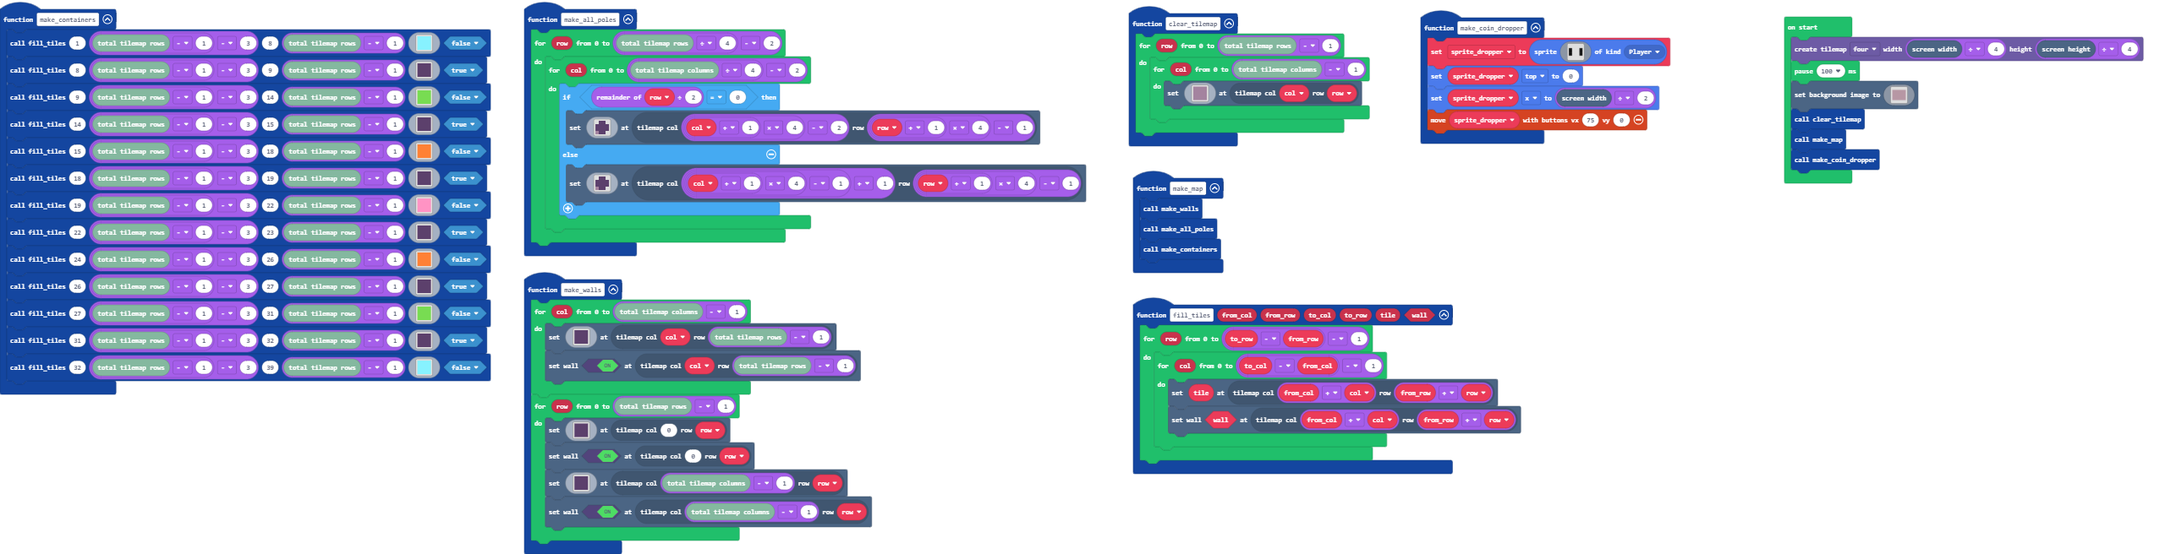
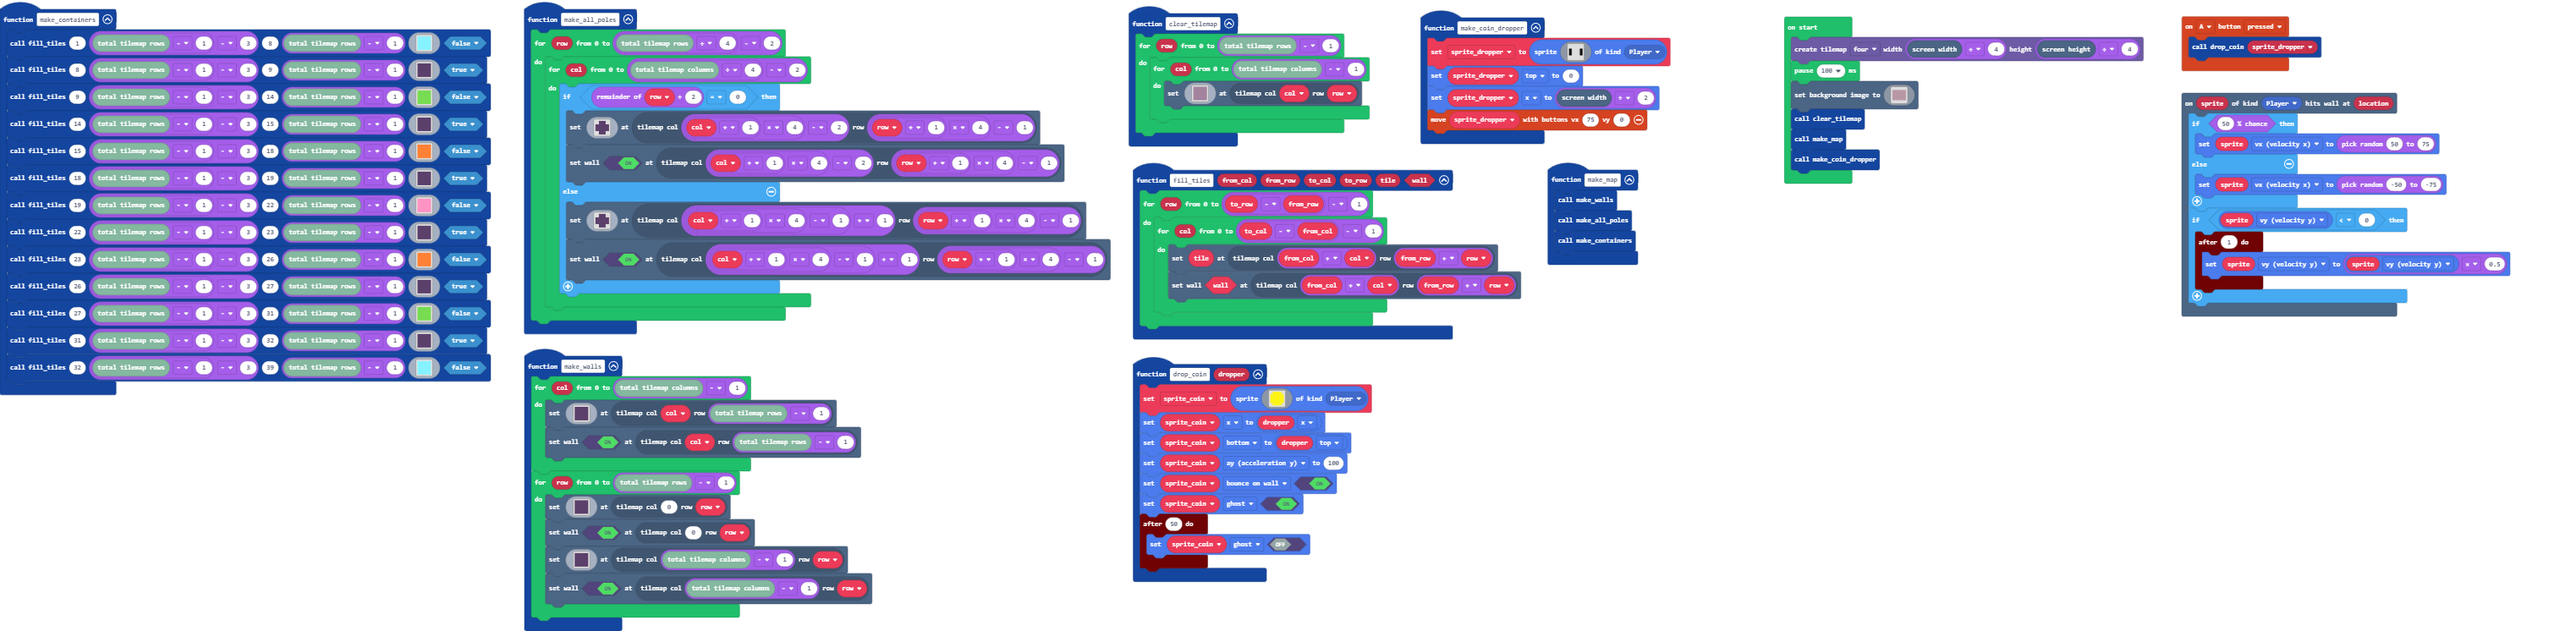
Can drop coins

diff --git a/main.ts b/main.ts
@@ -1,3 +1,29 @@
+scene.onHitWall(SpriteKind.Player, function (sprite, location) {
+    if (Math.percentChance(50)) {
+        sprite.vx = randint(50, 75)
+    } else {
+        sprite.vx = randint(-50, -75)
+    }
+    if (sprite.vy < 0) {
+        timer.after(1, function () {
+            sprite.vy = sprite.vy * 0.5
+        })
+    }
+})
+function drop_coin (dropper: Sprite) {
+    sprite_coin = sprites.create(assets.image`coin`, SpriteKind.Player)
+    sprite_coin.x = dropper.x
+    sprite_coin.bottom = dropper.top
+    sprite_coin.ay = 100
+    sprite_coin.setFlag(SpriteFlag.BounceOnWall, true)
+    sprite_coin.setFlag(SpriteFlag.Ghost, true)
+    timer.after(50, function () {
+        sprite_coin.setFlag(SpriteFlag.Ghost, false)
+    })
+}
+controller.A.onEvent(ControllerButtonEvent.Pressed, function () {
+    drop_coin(sprite_dropper)
+})
 function make_containers () {
     fill_tiles(1, tiles.tilemapRows() - 1 - 3, 8, tiles.tilemapRows() - 1, assets.image`10_points`, false)
     fill_tiles(8, tiles.tilemapRows() - 1 - 3, 9, tiles.tilemapRows() - 1, assets.image`wall`, true)
@@ -12,7 +38,7 @@ function make_containers () {
         3 3 3 3 
         `, false)
     fill_tiles(22, tiles.tilemapRows() - 1 - 3, 23, tiles.tilemapRows() - 1, assets.image`wall`, true)
-    fill_tiles(24, tiles.tilemapRows() - 1 - 3, 26, tiles.tilemapRows() - 1, assets.image`50_points`, false)
+    fill_tiles(23, tiles.tilemapRows() - 1 - 3, 26, tiles.tilemapRows() - 1, assets.image`50_points`, false)
     fill_tiles(26, tiles.tilemapRows() - 1 - 3, 27, tiles.tilemapRows() - 1, assets.image`wall`, true)
     fill_tiles(27, tiles.tilemapRows() - 1 - 3, 31, tiles.tilemapRows() - 1, assets.image`25_points`, false)
     fill_tiles(31, tiles.tilemapRows() - 1 - 3, 32, tiles.tilemapRows() - 1, assets.image`wall`, true)
@@ -23,8 +49,10 @@ function make_all_poles () {
         for (let col = 0; col <= tiles.tilemapColumns() / 4 - 2; col++) {
             if (row % 2 == 0) {
                 tiles.setTileAt(tiles.getTileLocation((col + 1) * 4 - 2, (row + 1) * 4 - 1), assets.image`pole`)
+                tiles.setWallAt(tiles.getTileLocation((col + 1) * 4 - 2, (row + 1) * 4 - 1), true)
             } else {
                 tiles.setTileAt(tiles.getTileLocation((col + 1) * 4 - 1 + 1, (row + 1) * 4 - 1), assets.image`pole`)
+                tiles.setWallAt(tiles.getTileLocation((col + 1) * 4 - 1 + 1, (row + 1) * 4 - 1), true)
             }
         }
     }
@@ -68,6 +96,7 @@ function make_walls () {
     }
 }
 let sprite_dropper: Sprite = null
+let sprite_coin: Sprite = null
 micromaps.createTilemap(micromaps.TileSize.Four, scene.screenWidth() / 4, scene.screenHeight() / 4)
 pause(100)
 scene.setBackgroundImage(assets.image`background`)

diff --git a/images.g.ts b/images.g.ts
@@ -10,14 +10,6 @@ c c c c
 c c c c 
 c c c c 
 `;
-            case "`CAJOn9kkqxpbQlaL2+!":
-            case "coin_dropper":return img`
-f f . . . . . f f 
-f f . . . . . f f 
-f f . . . . . f f 
-f f . . . . . f f 
-f f . . . . . f f 
-`;
             case "^U_6(g,$|O?u?#BAG:Q?":
             case "10_points":return img`
 9 9 9 9 
@@ -38,13 +30,6 @@ c c c c
 7 7 7 7 
 7 7 7 7 
 7 7 7 7 
-`;
-            case ";mKOJA=fPT]q":
-            case "pole":return img`
-. c c . 
-c c c c 
-c c c c 
-b c c . 
 `;
             case "[jo)YH_:2$A_9#g3,7!X":
             case "background":return img`
@@ -193,6 +178,37 @@ b b b b b b b b b b b b b b b b
 b b b b b b b b b b b b b b b b 
 b b b b b b b b b b b b b b b b 
 b b b b b b b b b b b b b b b b 
+`;
+            case "6a|2!R]lgW9U(Ex`o}g!":
+            case "coin":return img`
+. 5 5 5 5 . 
+5 5 5 5 5 5 
+5 5 5 5 5 5 
+5 5 5 5 5 5 
+5 5 5 5 5 5 
+. 5 5 5 5 . 
+`;
+            case ";_o#Xf:-j:x7Hy~W#paL":
+            case "50_points":return img`
+4 4 4 4 
+4 4 4 4 
+4 4 4 4 
+4 4 4 4 
+`;
+            case ";mKOJA=fPT]q":
+            case "pole":return img`
+. c c . 
+c c c c 
+c c c c 
+. c c . 
+`;
+            case "`CAJOn9kkqxpbQlaL2+!":
+            case "coin_dropper":return img`
+f f . . . . . . f f 
+f f . . . . . . f f 
+f f . . . . . . f f 
+f f . . . . . . f f 
+f f . . . . . . f f 
 `;
         }
         return null;
